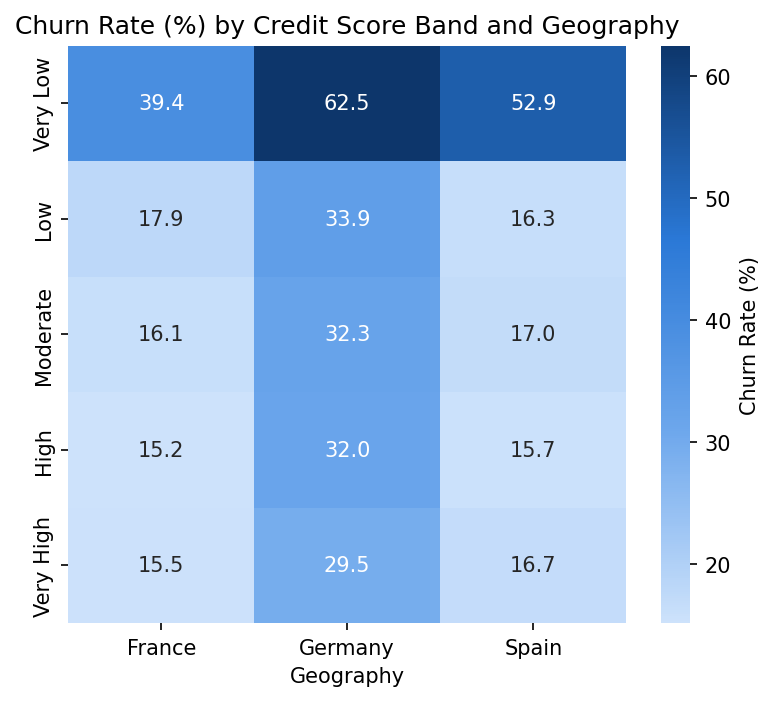
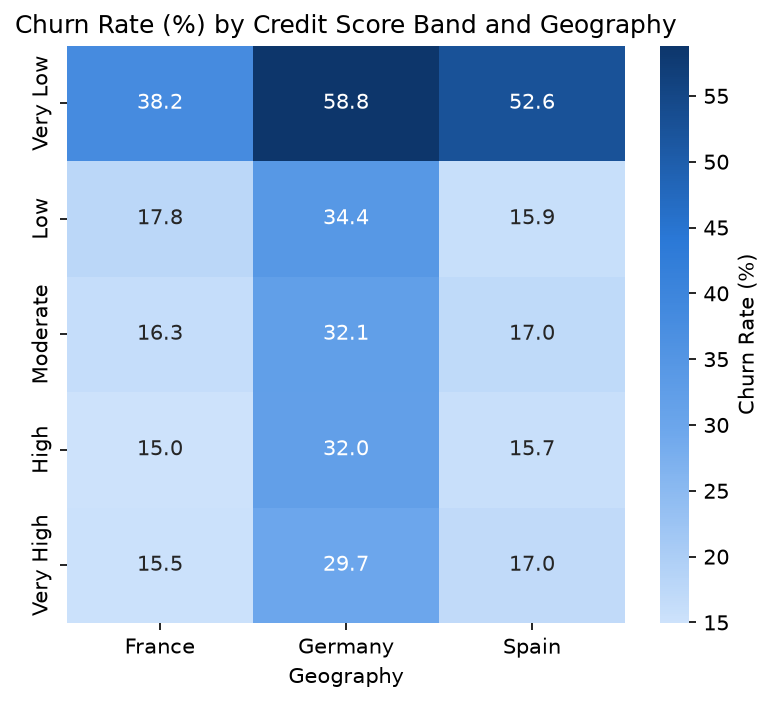
Align credit score bands with the Power BI dashboard
Use right-inclusive bins, (lower, upper], so a score of exactly 425 is
"Very Low", matching the DAX bands in the dashboard. Lowest edge is now
300 (the minimum score is 350) and the top band is open-ended (800+).

Refresh the downstream notebook outputs and the credit score heatmap, and
update the README table. Also correct the README claim that Germany churns
at ~2x France/Spain in every band; that holds from Low to Very High but not
in the small Very Low band.

diff --git a/README.md b/README.md
@@ -195,15 +195,17 @@ At 1 to 2 products owned, Germany's ~2x churn premium over France/Spain holds. A
 
 | Credit Score Band | Count | Churn Rate |
 |---|---|---|
-| Very Low (350–425) | 66 | 48.48% |
-| Low (425–550) | 1,524 | 21.6% |
-| Moderate (550–675) | 4,279 | 20.43% |
-| High (675–800) | 3,476 | 19.41% |
-| Very High (800–925) | 655 | 19.54% |
+| Very Low (300–425) | 70 | 47.14% |
+| Low (425–550) | 1,551 | 21.6% |
+| Moderate (550–675) | 4,285 | 20.44% |
+| High (675–800) | 3,449 | 19.34% |
+| Very High (800+) | 645 | 19.69% |
+
+Bands include their upper bound (a score of exactly 425 falls in "Very Low"), matching the Power BI dashboard.
 
 ![Churn rate heatmap by credit score band and geography](supplementary/figures/credit_score_churn_heatmap.png)
 
-Only the "Very Low" band stands out with a materially higher churn rate. Everything from Low to Very High is roughly flat around 19–22%. Splitting by geography, German customers churn at almost double the rate of France/Spain within every credit score band, reaching 62.5% for Germans in the "Very Low" band. That sample is small (66 customers total), so treat the exact percentage with some caution, but the direction is consistent with every other Germany finding above.
+Only the "Very Low" band stands out with a materially higher churn rate. Everything from Low to Very High is roughly flat around 19–22%. Splitting by geography, German customers churn at roughly double the rate of France/Spain within every band from Low to Very High. In the "Very Low" band Germans still churn the most (58.8%), but the gap to Spain (52.6%) is much narrower. That band is small (70 customers total, 17 of them German), so treat the exact percentages with some caution, but the direction is consistent with every other Germany finding above.
 
 #### 6. Combined Risk Score
 
